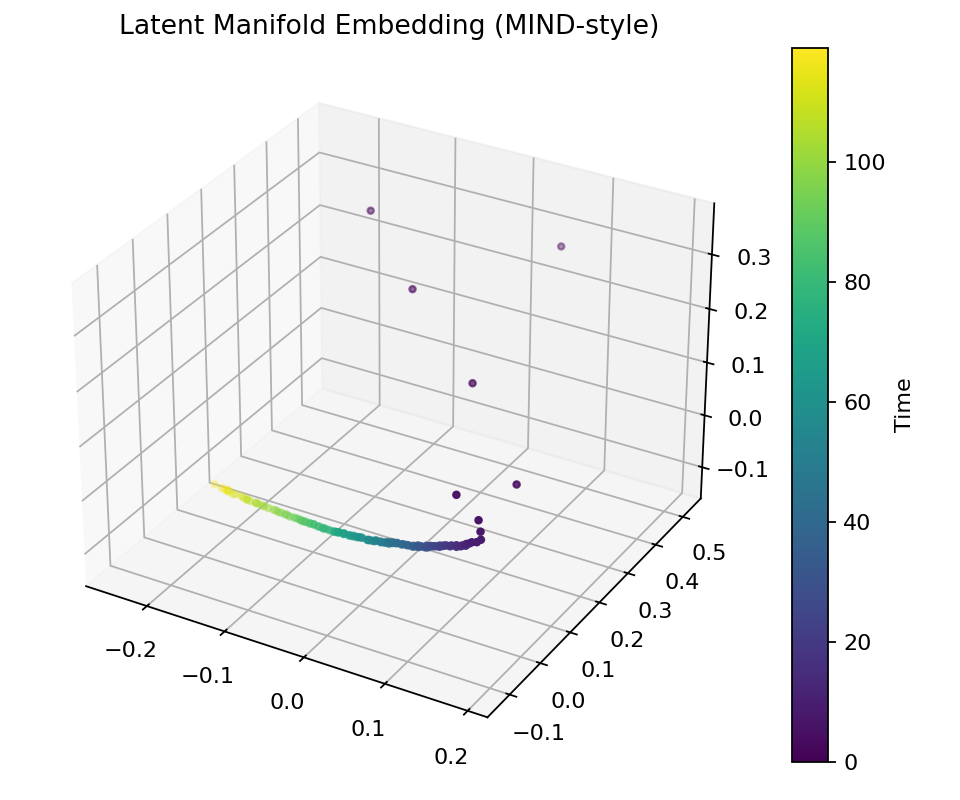
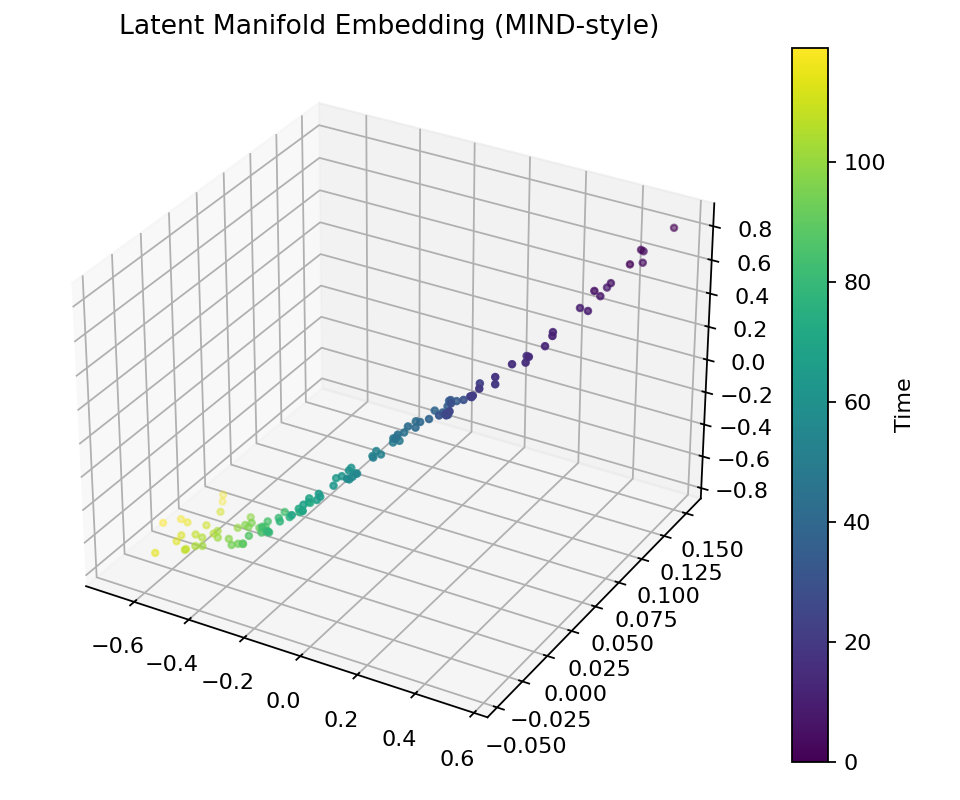
did a seed sweep, added logvar clamping, fixed again to run with float32

diff --git a/src/neural_ode_vae.py b/src/neural_ode_vae.py
@@ -19,6 +19,18 @@ import matplotlib.pyplot as plt
 import json
 import hashlib
 
+# Utility: convert NumPy/tensor types into JSON-friendly Python types
+def to_jsonable(obj):
+    if isinstance(obj, (np.floating, np.float32, np.float64)):
+        return float(obj)
+    if isinstance(obj, (np.integer, np.int32, np.int64)):
+        return int(obj)
+    if isinstance(obj, (np.ndarray, list, tuple)):
+        return [to_jsonable(x) for x in obj]
+    if isinstance(obj, dict):
+        return {k: to_jsonable(v) for k, v in obj.items()}
+    return obj
+
 # used to compute file sha256 checksum, used to log the hash of the input file (for reproducibility)
 def compute_file_sha(path):
     with open(path, "rb") as f:
@@ -272,14 +284,16 @@ class ODEVAE(nn.Module):
         """
         if method == "rk4":
             # Use your uniform t grid spacing as the fixed step size.
+            # Slightly smaller fixed-step for MPS to reduce stiffness-related NaNs
             step = (tvec[1] - tvec[0]).abs().item()
-            # NOTE: step_size is required for fixed-step methods in torchdiffeq.
+            safe_step = step / 2.0  # you can try /4 if a seed still blows up
+
             z_traj = odeint(
                 self.odefunc,
                 z0,
                 tvec,
                 method="rk4",
-                options={"step_size": step}
+                options={"step_size": safe_step}
             )
             return z_traj
 
@@ -343,6 +357,9 @@ class ODEVAE(nn.Module):
     
 #___________________loss_________________#
 def vae_loss(xhat, x, mu, logvar, zdiff, beta=1.0, lambda_smooth=0.0):
+    # --- Safety clamp to prevent numerical overflow ---
+    logvar = torch.clamp(logvar, min=-10.0, max=10.0)
+
     recon = torch.mean((xhat - x) ** 2)
     kl = -0.5 * torch.mean(1 + logvar - mu.pow(2) - logvar.exp())
     smooth = torch.mean(zdiff**2) if lambda_smooth > 0 else x.new_tensor(0.0)
@@ -380,6 +397,9 @@ def train(args):
         drop_first_trials=args.drop_first_trials,
         min_frames=10
     ) # X: [B, L, N]
+
+    # --- Normalize time vector to [0,1] for numerical stability ---
+    tvec_np = tvec_np / tvec_np[-1]
 
     
 
@@ -564,7 +584,6 @@ def train(args):
         embed = mds.fit_transform(D)
 
         # Plot MDS embedding (color by time)
-        import matplotlib.pyplot as plt
         fig = plt.figure(figsize=(6,5))
         ax = fig.add_subplot(111, projection="3d")
         t = np.arange(len(embed))
@@ -608,7 +627,7 @@ def train(args):
 
     json_path = os.path.join(args.out_dir, "run_metadata.json")
     with open(json_path, "w") as f:
-        json.dump(run_metadata, f, indent=2)
+        json.dump(to_jsonable(final_metrics), f, indent=2)
     print(f"Saved run metadata → {json_path}")
 
     torch.save(final_metrics, PATHS["final_metrics"])

diff --git a/README.md b/README.md
@@ -3,7 +3,16 @@
 * Built for: Schottdorf Lab
 
 # Current Challenges:
-Working to fix posterior collapse. 
+Moving the data from the simulated data and scaling, also re-running data visualizations on the new model output. 
+# Most Recent Updates:
+
+October 30th, 4:41pm:
+- Added logvar clamping to prevent extreme variance from inflating the reconstruction term.
+- Added time normalization (tvec / tvec[-1]) to help the model behavor consistently across datasets. 
+- Smaller step size for RK4 (slightly less aggressive trajectory fitting)
+- Seed scan:
+    - Ran the model on simulated data using 5 different seeds, saved the result dump to ```seed_sweep_results.txt```. 
+    - Seed 1 is currently getting the best results with the simulated data (R^2 of 0.9789)
 
 ## File Structure
 ```
